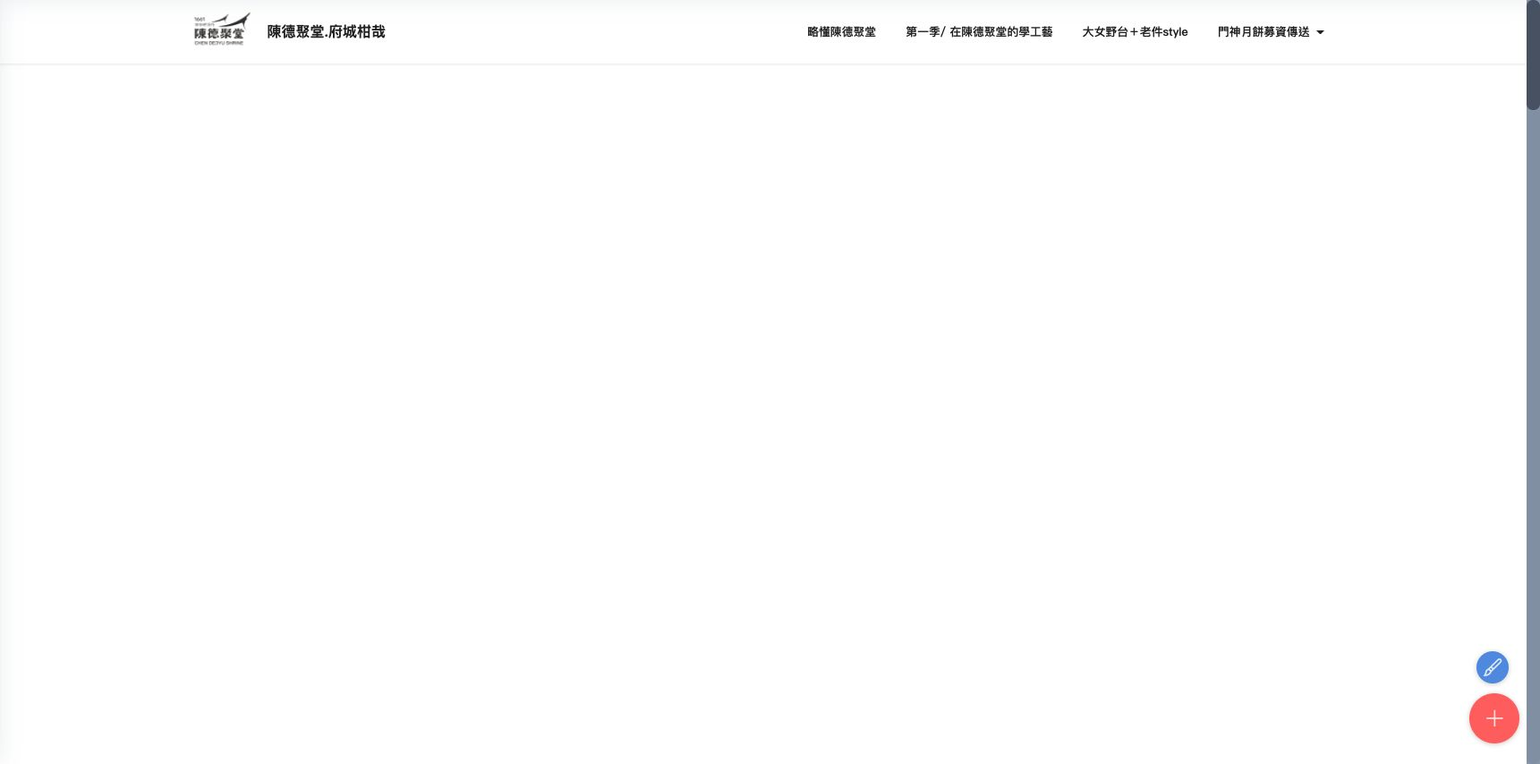
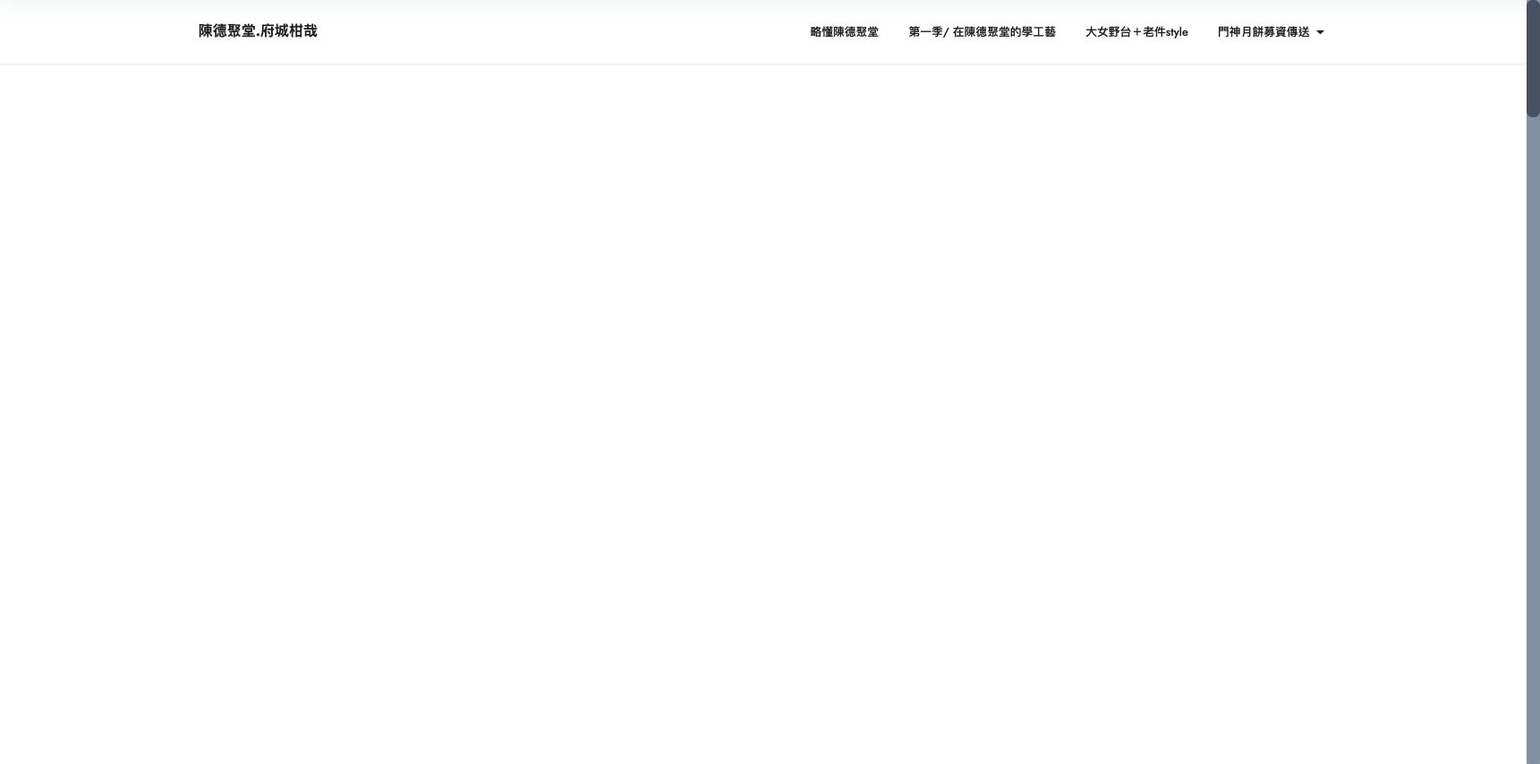
1205

diff --git a/page5.html b/page5.html
@@ -84,7 +84,7 @@
             <div class="col-md-12 col-lg-10">
                 
                 
-                <p class="mbr-text mbr-fonts-style display-7">記得去年12月「風土野台2」的活動風景嗎，人雖然不是最多的市集，但應該是多數人都玩得開心的市集。去年2024年，在「大宮町縱走」講地方風土風物的框架下，我們與臺南各分區的物產家一起辦活動，用心推動在地方找到的物產可貴之處，再把它蓬鬆的組織成有趣的樣子。今年，風土野台邁入第三回，迎來了強大夥伴——「大女」正式登入！<br><br>「大女style聚落」aka「DO+T 多加思所」歷經一年的等待與籌備，「大女Style聚落市集」邁入第四回<br><br>「大女style聚落」aka「DO+T 多加思所」帶著 50+ 女性的「銀響力」登入古蹟，透過廢布再生的永續設計，不僅讓邊角料重生，更在第三人生中自信展現手藝與新舞台。這份「再生」的力量，與「風土野台」重視地方記憶與物產的精神不謀而合——在陳德聚堂這座充滿時光感的場所裡，搭建起青銀共創的開放舞台，讓老件的溫度與歌聲的旋律在這裡迴盪。不僅是體現場所精神，還有人與物，路徑的相遇，也是聯盟過去與未來、交織熟齡女力與風物記憶的時代風景。<br><br>期待與大家再次相見</p>
+                <p class="mbr-text mbr-fonts-style display-7">記得去年12月「風土野台2」的活動風景嗎，人雖然不是最多的市集，但應該是多數人都玩得開心的市集。去年2024年，在「大宮町縱走」講地方風土風物的框架下，我們與臺南各分區的物產家一起辦活動，用心推動在地方找到的物產可貴之處，再把它蓬鬆的組織成有趣的樣子。今年，風土野台邁入第三回，迎來了強大夥伴——「大女」正式登入！<br><br>「大女style聚落」aka「DO+T 多加思所」歷經一年的等待與籌備，「大女Style聚落市集」邁入第四回<br><br>「大女style聚落」aka「DO+T 多加思所」帶著 50+ 女性的「銀響力」登入古蹟，透過廢布再生的永續設計，不僅讓邊角料重生，更在第三人生中自信展現手藝與新舞台。這份「再生」的力量，與「風土野台」重視「把人帶去村，把物產帶進城」的精神不謀而合——在陳德聚堂這座充滿時光感的市定古蹟裡，搭建起共創的開放舞台，讓老件的溫度與歌聲的旋律在這裡迴盪。一方面體現「場所精神」，還有人與物，路徑的相遇，也是聯盟過去與未來、交織50+女力與風物記憶的時代風景。<br><br>♦「大女」比你知道的更多，不是通俗的大齡女子<br>在臺灣的紡織與成衣產業文化（特別是近年結合地方創生與歷史回顧的語境下），「大女」是一個具有文化與時代意義的稱呼。<br><br>1. 核心定義的大女：理解為縫紉技術最厲害的敬稱<br>是那些曾經經歷過臺灣紡織業起飛年代（約1960-1980年代），擁有豐富縫紉、車縫或成衣製作經驗的女性。&nbsp;隨著歲月增長，她們從當年的「女工」變成了現在的「大女裁縫師」。<br>ｅｘ：她是做「西裝」的,她是做「淑女」的，她是做「大女」。款式不同的工，也意味著手工的細緻與等級程度。<br><br>2.歷史背景中的大女:「大女」代表了臺灣經濟奇蹟背後的重要勞動力。許多「大女」當年是在家中一邊照顧孩子、一邊踩著縫紉機（車台）完成成衣代工。<br><br>3.現今的大女：與高齡化社會的議題共融，並與「第三人生」結合，共創出新的詮釋與機會。</p>
             </div>
         </div>
     </div>
@@ -92,11 +92,11 @@
 
 <section data-bs-version="5.1" class="slider1 cid-v3Gs6R4mxT" id="slider1-2q">
     
-    <div class="carousel slide" id="v3GB0lqVdu" data-interval="5000" data-bs-interval="5000">
+    <div class="carousel slide" id="v4w29eq28E" data-interval="5000" data-bs-interval="5000">
         <ol class="carousel-indicators">
-            <li data-slide-to="0" data-bs-slide-to="0" class="active" data-target="#v3GB0lqVdu" data-bs-target="#v3GB0lqVdu"></li>
-            <li data-slide-to="1" data-bs-slide-to="1" data-target="#v3GB0lqVdu" data-bs-target="#v3GB0lqVdu"></li>
-            <li data-slide-to="2" data-bs-slide-to="2" data-target="#v3GB0lqVdu" data-bs-target="#v3GB0lqVdu"></li><li data-slide-to="3" data-bs-slide-to="3" data-target="#v3GB0lqVdu" data-bs-target="#v3GB0lqVdu"></li><li data-slide-to="4" data-bs-slide-to="4" data-target="#v3GB0lqVdu" data-bs-target="#v3GB0lqVdu"></li><li data-slide-to="5" data-bs-slide-to="5" data-target="#v3GB0lqVdu" data-bs-target="#v3GB0lqVdu"></li><li data-slide-to="6" data-bs-slide-to="6" data-target="#v3GB0lqVdu" data-bs-target="#v3GB0lqVdu"></li>
+            <li data-slide-to="0" data-bs-slide-to="0" class="active" data-target="#v4w29eq28E" data-bs-target="#v4w29eq28E"></li>
+            <li data-slide-to="1" data-bs-slide-to="1" data-target="#v4w29eq28E" data-bs-target="#v4w29eq28E"></li>
+            <li data-slide-to="2" data-bs-slide-to="2" data-target="#v4w29eq28E" data-bs-target="#v4w29eq28E"></li><li data-slide-to="3" data-bs-slide-to="3" data-target="#v4w29eq28E" data-bs-target="#v4w29eq28E"></li><li data-slide-to="4" data-bs-slide-to="4" data-target="#v4w29eq28E" data-bs-target="#v4w29eq28E"></li><li data-slide-to="5" data-bs-slide-to="5" data-target="#v4w29eq28E" data-bs-target="#v4w29eq28E"></li><li data-slide-to="6" data-bs-slide-to="6" data-target="#v4w29eq28E" data-bs-target="#v4w29eq28E"></li>
         </ol>
         <div class="carousel-inner">
             <div class="carousel-item slider-image item active">
@@ -145,11 +145,11 @@
                 </div>
             </div>
         </div>
-        <a class="carousel-control carousel-control-prev" role="button" data-slide="prev" data-bs-slide="prev" href="#v3GB0lqVdu">
+        <a class="carousel-control carousel-control-prev" role="button" data-slide="prev" data-bs-slide="prev" href="#v4w29eq28E">
             <span class="mobi-mbri mobi-mbri-arrow-prev" aria-hidden="true"></span>
             <span class="sr-only visually-hidden">Previous</span>
         </a>
-        <a class="carousel-control carousel-control-next" role="button" data-slide="next" data-bs-slide="next" href="#v3GB0lqVdu">
+        <a class="carousel-control carousel-control-next" role="button" data-slide="next" data-bs-slide="next" href="#v4w29eq28E">
             <span class="mobi-mbri mobi-mbri-arrow-next" aria-hidden="true"></span>
             <span class="sr-only visually-hidden">Next</span>
         </a>
@@ -166,14 +166,13 @@
             <div class="col-12 col-lg-5">
                 <div class="image-wrapper">
                     <img src="assets/images/1126-1.png" alt="">
-                    <p class="mbr-description mbr-fonts-style mt-2 align-center display-4">
-                        Image Description</p>
+                    
                 </div>
             </div>
             <div class="col-12 col-lg-6">
                 <div class="text-wrapper">
                     <h3 class="mbr-section-title mbr-fonts-style mb-3 display-5"><strong>【大女野台 x 老件style（時代）】</strong><div><strong>↗日期：12/13 星期六</strong></div><div><strong>↗時間：下午2點-晚上8點</strong></div><div><strong>↗地點：陳德聚堂（台南市永福路二段152巷20號）</strong></div><div><strong>｜認明永福路上巷口地標：台新銀行，轉進來的巷子。</strong><strong>或是從忠義路轉進永福路。</strong></div><div><strong><br></strong></div></h3>
-                    <p class="mbr-text mbr-fonts-style display-7">▁▁▁▁▁▁<br>▍野台  主場 ▍<br>▔▔▔▔▔▔<br>12/13星期 六<br>⭑ 活動開場白<br><br>⭑ 攤主時間<br>20攤大女夥伴 一起登台，分享自己的故事與作品（商品），讓每個攤位都成為「時代的風景」。<br><br>⭑ 大女野台：徐梅琴 老師 唱老歌<br>創作歌手 / 徐梅琴老師 用吉他與歌聲，喚醒我們共同的青春記憶。<br><br>⭑ 大女野台：賴美伶 老師 講故事<br>森林療癒師／森活之村創辦人 賴美伶 分享她實踐「第三人生」的故事。<br><br>⭑ 老件時代：往事只能回味 ，你與時代同行的故事。<br>「有故事的老照片」，現場的影像牆，讓更多人看見你與時代同行的故事。<br><br>⭑ 金派盃｜鏘歌大賽2 <br>『金派盃｜鏘歌大賽2 』覺得自己的歌喉很差嗎，請趕快來報名。（金派盃有您要的舞台）<br>現場觀眾、攤主投票選出冠軍拿獎金、獎品<br>加分：聯名『DO+T多加思索 』治裝區，裝扮有加分，票選最佳look更加分。<br>限十位參賽名額，報名從速 https://reurl.cc/LQNkoe<br><br>⭑ 款待時刻（交流分享第三人生有多美好）<br>邀請所有攤主與夥伴一起共聚、唱歌、交流，這個時段，一起分享交流感受的溫暖與祝福。<br><br><br>▁▁▁▁▁▁<br>▍野台  串場  ▍<br>▔▔▔▔▔▔<br>⑴老布洋裝訂製（現場量身訂製，有限名額）<br>⭢復古寵物衣訂製：毛孩也想走一個復古文青風的話，不妨考慮前往...。<br>⭢我們找到好多老布紋樣好漂亮，花色不撞衫，還是經典款式（沒有覺得很棒嗎）<br>｜<br>⑵ 舊衣「去」袋「來」（請報名）<br>⭢是什麼魔法咒語膩，對！就是100元的神祕魔法。讓不要了的衣服回春。<br>｜<br>⑶放開那個野台，卡拉ｏｋ秀(開放點歌或報名上台，免投幣) <br>⭢覺得歌喉不好，但是又想在廣場上唱歌（如果我們的市集沒人）便能達成您的願望。不妨先報名<br>｜<br>⑷心情插撥（報名）<br>⭢工商插撥也可以，如果不想先報名，現場來寫秘密的話，我們就會知道你是誰（笑）。<br>｜<br>⑸你的廢物交換我的廢物（報名）<br>⭢你的囤積物或許是別人的寶物？！會不會有可能比收到交換禮物更驚喜。<br>｜<br>⑹套圈圈換錢錢<br>⭢親子同樂最佳選擇，換到吃飽的本錢或是吃飽後的伸展，都是可以的。<br>（中獎率100％）<br>｜<br>☞以上，點開綜合報名表填一填：<a href="https://form.jotform.com/253274410703449" class="text-primary" target="_blank"> https://reurl.cc/LQNkoe</a><br><br>But但是，<br>如果你只想好好吃東西、好好看著舞台上的光景，讓你就算獨自出席也不寂寞。<br>今年有臺南重量級古攤車收藏家「勇伯」與不能說的「臺南美食」的加乘，用「超優秀票卷」才能換<br><br>☞「超優秀票卷」150元內容：☞登記留票（現場繳費）： https://reurl.cc/LQNkoe<br>厚本製作：多加思索老布紋樣袋<br>三種古味小食套餐內容各一份：勇哥豆花、無名肉粽、QQ芋頭麻糬<br><br><br>｜主辦與執行單位：多加社會企業社（多加思所）、誠美社會企業、陳德聚堂 府城甘哉&nbsp;<br>｜贊助單位：感恩聖仁基金會、公益支持<br><br>延伸看：<br><a href="https://tainan-cmse.github.io/2024-/index.html#slider5-0" class="text-primary" target="_blank">風土野台2024活動檔案</a><br><a href="https://www.facebook.com/doplusthink" class="text-primary" target="_blank">大女聚落style市集檔案</a></p>
+                    <p class="mbr-text mbr-fonts-style display-7">▁▁▁▁▁▁<br>▍野台  主場 ▍<br>▔▔▔▔▔▔<br>12/13星期 六<br>⭑ 活動開場白<br><br>⭑ 攤主時間<br>20攤大女夥伴 一起登台，分享自己的故事與作品（商品），讓每個攤位都成為「時代的風景」。<br><br>⭑ 大女野台：徐梅琴 老師 唱老歌<br>創作歌手 / 徐梅琴老師 用吉他與歌聲，喚醒我們共同的青春記憶。<br><br>⭑ 大女野台：賴美伶 老師 講故事<br>森林療癒師／森活之村創辦人 賴美伶 分享她實踐「第三人生」的故事。<br><br>⭑ 老件時代：往事只能回味 ，你與時代同行的故事。<br>「有故事的老照片」，現場的影像牆，讓更多人看見你與時代同行的故事。<br><br>⭑ 金派盃｜鏘歌大賽2 <br>『金派盃｜鏘歌大賽2 』請趕快來報名。（金派盃有您要的舞台）<br>✧現場觀眾、攤主投票選出冠軍拿獎金、獎品<br>✧加分：聯名『DO+T多加思索 』治裝區，裝扮有加分，票選最佳look更加分。<br>✧限十位參賽名額，報名從速 https://reurl.cc/LQNkoe<br><br>⭑ 款待時刻（交流分享第三人生有多美好）<br>邀請所有攤主與夥伴一起共聚、唱歌、交流，這個時段，一起分享交流感受的溫暖與祝福。<br><br><br>▁▁▁▁▁▁<br>▍野台  串場  ▍<br>▔▔▔▔▔▔<br>⑴老布洋裝訂製（現場量身訂製，有限名額）<br>⭢復古寵物衣訂製：毛孩也想走一個復古文青風的話，不妨考慮前往...。<br>⭢我們找到好多老布紋樣好漂亮，花色不撞衫，還是經典款式（沒有覺得很棒嗎）<br>｜<br>⑵ 舊衣「去」袋「來」（請報名）<br>⭢是什麼魔法咒語膩，對！就是100元的神祕魔法。讓不要了的衣服回春。<br>｜<br>⑶放開那個野台，卡拉ｏｋ秀(開放點歌或報名上台，免投幣) <br>⭢覺得歌喉不好，但是又想在廣場上唱歌（如果我們的市集沒人）便能達成您的願望。不妨先報名<br>｜<br>⑷心情插撥（報名）<br>⭢工商插撥也可以，如果不想先報名，現場來寫秘密的話，我們就會知道你是誰（笑）。<br>｜<br>⑸你的廢物交換我的廢物（報名）<br>⭢你的囤積物或許是別人的寶物？！會不會有可能比收到交換禮物更驚喜。<br>｜<br>⑹套圈圈換錢錢<br>⭢親子同樂最佳選擇，換到吃飽的本錢或是吃飽後的伸展，都是可以的。<br>（中獎率100％）<br>｜<br>☞以上，點開綜合報名表填一填：<a href="https://form.jotform.com/253274410703449" class="text-primary" target="_blank"> https://reurl.cc/LQNkoe</a><br><br>但，如果你只想好好吃東西、好好看著舞台上的光景，讓你就算獨自出席也不寂寞。<br>今年有臺南重量級古攤車收藏家「勇伯」與不能說的「臺南美食」的加乘，用「超優秀票卷」才能換<br><br>☞「超優秀票卷」150元內容：☞登記留票（現場繳費）： <a href="https://reurl.cc/LQNkoe" class="text-primary" target="_blank">https://reurl.cc/LQNkoe</a><br>厚本製作：多加思索老布紋樣袋<br>三種古味小食套餐內容各一份：勇哥豆花、無名肉粽、QQ芋頭麻糬<br><br><br>｜主辦與執行單位：多加社會企業社（多加思所）、誠美社會企業、陳德聚堂 府城甘哉&nbsp;<br>｜贊助單位：感恩聖仁基金會、公益支持<br><br>延伸看：<br><a href="https://tainan-cmse.github.io/2024-/index.html#slider5-0" class="text-primary" target="_blank">風土野台2024活動檔案</a><br><a href="https://www.facebook.com/doplusthink" class="text-primary" target="_blank">大女聚落style市集檔案</a></p>
                 </div>
             </div>
         </div>

diff --git a/mooncake.html b/mooncake.html
@@ -329,12 +329,12 @@
                     <div id="bootstrap-toggle" class="toggle-panel accordionStyles tab-content">
                         <div class="card mb-3">
                             <div class="card-header" role="tab" id="headingOne">
-                                <a role="button" class="collapsed panel-title text-black" data-toggle="collapse" data-bs-toggle="collapse" data-core="" href="#collapse1_15" aria-expanded="false" aria-controls="collapse1">
+                                <a role="button" class="collapsed panel-title text-black" data-toggle="collapse" data-bs-toggle="collapse" data-core="" href="#collapse1_17" aria-expanded="false" aria-controls="collapse1">
                                     <h6 class="panel-title-edit mbr-fonts-style mb-0 display-7"><strong>訂購的流程</strong></h6>
                                     <span class="sign mbr-iconfont mbri-arrow-down"></span>
                                 </a>
                             </div>
-                            <div id="collapse1_15" class="panel-collapse noScroll collapse" role="tabpanel" aria-labelledby="headingOne">
+                            <div id="collapse1_17" class="panel-collapse noScroll collapse" role="tabpanel" aria-labelledby="headingOne">
                                 <div class="panel-body">
                                     <p class="mbr-fonts-style panel-text display-7">點開連結填寫下單訂購資料後，將由專人與您確認金額與送貨資訊。</p>
                                 </div>
@@ -342,13 +342,13 @@
                         </div>
                         <div class="card mb-3">
                             <div class="card-header" role="tab" id="headingTwo">
-                                <a role="button" class="collapsed panel-title text-black" data-toggle="collapse" data-bs-toggle="collapse" data-core="" href="#collapse2_15" aria-expanded="false" aria-controls="collapse2">
+                                <a role="button" class="collapsed panel-title text-black" data-toggle="collapse" data-bs-toggle="collapse" data-core="" href="#collapse2_17" aria-expanded="false" aria-controls="collapse2">
                                     <h6 class="panel-title-edit mbr-fonts-style mb-0 display-7"><strong>付款方式多元嗎</strong></h6>
                                     <span class="sign mbr-iconfont mbri-arrow-down"></span>
                                 </a>
 
                             </div>
-                            <div id="collapse2_15" class="panel-collapse noScroll collapse" role="tabpanel" aria-labelledby="headingTwo">
+                            <div id="collapse2_17" class="panel-collapse noScroll collapse" role="tabpanel" aria-labelledby="headingTwo">
                                 <div class="panel-body">
                                     <p class="mbr-fonts-style panel-text display-7">可選現金、line pay 或 轉帳，三種方式。<br></p>
                                 </div>
@@ -356,12 +356,12 @@
                         </div>
                         <div class="card mb-3">
                             <div class="card-header" role="tab" id="headingThree">
-                                <a role="button" class="collapsed panel-title text-black" data-toggle="collapse" data-bs-toggle="collapse" data-core="" href="#collapse3_15" aria-expanded="false" aria-controls="collapse3">
+                                <a role="button" class="collapsed panel-title text-black" data-toggle="collapse" data-bs-toggle="collapse" data-core="" href="#collapse3_17" aria-expanded="false" aria-controls="collapse3">
                                     <h6 class="panel-title-edit mbr-fonts-style mb-0 display-7"><strong>購買方式有哪些</strong></h6>
                                     <span class="sign mbr-iconfont mbri-arrow-down"></span>
                                 </a>
                             </div>
-                            <div id="collapse3_15" class="panel-collapse noScroll collapse" role="tabpanel" aria-labelledby="headingThree">
+                            <div id="collapse3_17" class="panel-collapse noScroll collapse" role="tabpanel" aria-labelledby="headingThree">
                                 <div class="panel-body">
                                     <p class="mbr-fonts-style panel-text display-7"></p><p>有兩種<br></p><p>1.[府城柑哉]實體據點購買：臺南市中西區永福路二段152巷20號<br><br>每日數量有限，可以先透過line聯繫。</p><p>2.線上訂購。</p><p></p><p></p>
                                 </div>
@@ -369,12 +369,12 @@
                         </div>
                         <div class="card mb-3">
                             <div class="card-header" role="tab" id="headingThree">
-                                <a role="button" class="collapsed panel-title text-black" data-toggle="collapse" data-bs-toggle="collapse" data-core="" href="#collapse4_15" aria-expanded="false" aria-controls="collapse4">
+                                <a role="button" class="collapsed panel-title text-black" data-toggle="collapse" data-bs-toggle="collapse" data-core="" href="#collapse4_17" aria-expanded="false" aria-controls="collapse4">
                                     <h6 class="panel-title-edit mbr-fonts-style mb-0 display-7"><strong>府城柑哉，是什麼</strong></h6>
                                     <span class="sign mbr-iconfont mbri-arrow-down"></span>
                                 </a>
                             </div>
-                            <div id="collapse4_15" class="panel-collapse noScroll collapse" role="tabpanel" aria-labelledby="headingThree">
+                            <div id="collapse4_17" class="panel-collapse noScroll collapse" role="tabpanel" aria-labelledby="headingThree">
                                 <div class="panel-body">
                                     <p class="mbr-fonts-style panel-text display-7">
                                        位於陳德聚堂內的微型商店，有賣一些小點心與選品，透過<a href="https://tainan-cmse.github.io/2024-/index.html#slider5-0" class="text-primary" target="_blank">2024大宮町縱走</a>計畫建立。同時身兼文化研究以及與人們交流的小店，由目前的管理維護與認養單位<a href="https://cmse.com.tw/?__cf_chl_tk=gggaWD5M7qCWehMT8on0OAL0TrHPvNkzkxfx6lMgrFg-1756559190-1.0.1.1-3toTLfhkrINoSn4T3pmnEmUsyMLV9oCFGad84JJT3TQ" class="text-primary" target="_blank">誠美社會企業</a>營運。</p>
@@ -383,12 +383,12 @@
                         </div>
                         <div class="card mb-3">
                             <div class="card-header" role="tab" id="headingThree">
-                                <a role="button" class="collapsed panel-title text-black" data-toggle="collapse" data-bs-toggle="collapse" data-core="" href="#collapse5_15" aria-expanded="false" aria-controls="collapse5">
+                                <a role="button" class="collapsed panel-title text-black" data-toggle="collapse" data-bs-toggle="collapse" data-core="" href="#collapse5_17" aria-expanded="false" aria-controls="collapse5">
                                    <h6 class="panel-title-edit mbr-fonts-style mb-0 display-7"><strong>卷月食研是誰</strong></h6>
                                         <span class="mbr-iconfont mobi-mbri-arrow-down mobi-mbri"></span>
                                 </a>
                             </div>
-                            <div id="collapse5_15" class="panel-collapse noScroll collapse" role="tabpanel" aria-labelledby="headingThree">
+                            <div id="collapse5_17" class="panel-collapse noScroll collapse" role="tabpanel" aria-labelledby="headingThree">
                                 <div class="panel-body">
                                     <p class="mbr-fonts-style panel-text display-7">
                                        本次月餅本體的主廚，閒不下來的食物研發研究者，製作食物成生活習慣，實踐製作各式鹹甜食超過10年，還沒放棄的青年，曾是2010年代臺南流浪攤車的始祖ａｋａ派慕流浪甜點。</p>

diff --git a/index.html b/index.html
@@ -84,10 +84,10 @@
     <div class="container-fluid">
         <div class="row justify-content-center">
             <div class="col-12 col-md-10 col-lg-12">
-                <div class="carousel slide" id="v3GB0hfLXF" data-ride="carousel" data-bs-ride="carousel" data-interval="5000" data-bs-interval="5000">
+                <div class="carousel slide" id="v4w297czjv" data-ride="carousel" data-bs-ride="carousel" data-interval="5000" data-bs-interval="5000">
                     
                     <ol class="carousel-indicators">
-                        <li data-slide-to="0" data-bs-slide-to="0" class="active" data-target="#v3GB0hfLXF" data-bs-target="#v3GB0hfLXF"></li><li data-slide-to="1" data-bs-slide-to="1" class="" data-target="#v3GB0hfLXF" data-bs-target="#v3GB0hfLXF"></li><li data-slide-to="2" data-bs-slide-to="2" class="" data-target="#v3GB0hfLXF" data-bs-target="#v3GB0hfLXF"></li>
+                        <li data-slide-to="0" data-bs-slide-to="0" class="active" data-target="#v4w297czjv" data-bs-target="#v4w297czjv"></li><li data-slide-to="1" data-bs-slide-to="1" class="" data-target="#v4w297czjv" data-bs-target="#v4w297czjv"></li><li data-slide-to="2" data-bs-slide-to="2" class="" data-target="#v4w297czjv" data-bs-target="#v4w297czjv"></li>
                         
                         
                     </ol>
@@ -111,11 +111,11 @@
                         
                         
                     </div>
-                    <a class="carousel-control carousel-control-prev" role="button" data-slide="prev" data-bs-slide="prev" href="#v3GB0hfLXF">
+                    <a class="carousel-control carousel-control-prev" role="button" data-slide="prev" data-bs-slide="prev" href="#v4w297czjv">
                         <span class="mobi-mbri mobi-mbri-arrow-prev" aria-hidden="true"></span>
                         <span class="sr-only visually-hidden">Previous</span>
                     </a>
-                    <a class="carousel-control carousel-control-next" role="button" data-slide="next" data-bs-slide="next" href="#v3GB0hfLXF">
+                    <a class="carousel-control carousel-control-next" role="button" data-slide="next" data-bs-slide="next" href="#v4w297czjv">
                         <span class="mobi-mbri mobi-mbri-arrow-next" aria-hidden="true"></span>
                         <span class="sr-only visually-hidden">Next</span>
                     </a>
@@ -130,7 +130,7 @@
     
     <div>
         
-        <div class="google-map"><iframe frameborder="0" style="border:0" src="https://www.google.com/maps/embed/v1/place?key=AIzaSyBQ55g-IgRRgXrd803PTWDTb7kd6aAitNQ&amp;q=台南市中西區永福路二段152巷20號" allowfullscreen=""></iframe></div>
+        <div class="google-map"></div>
     </div>
 </section>
 
